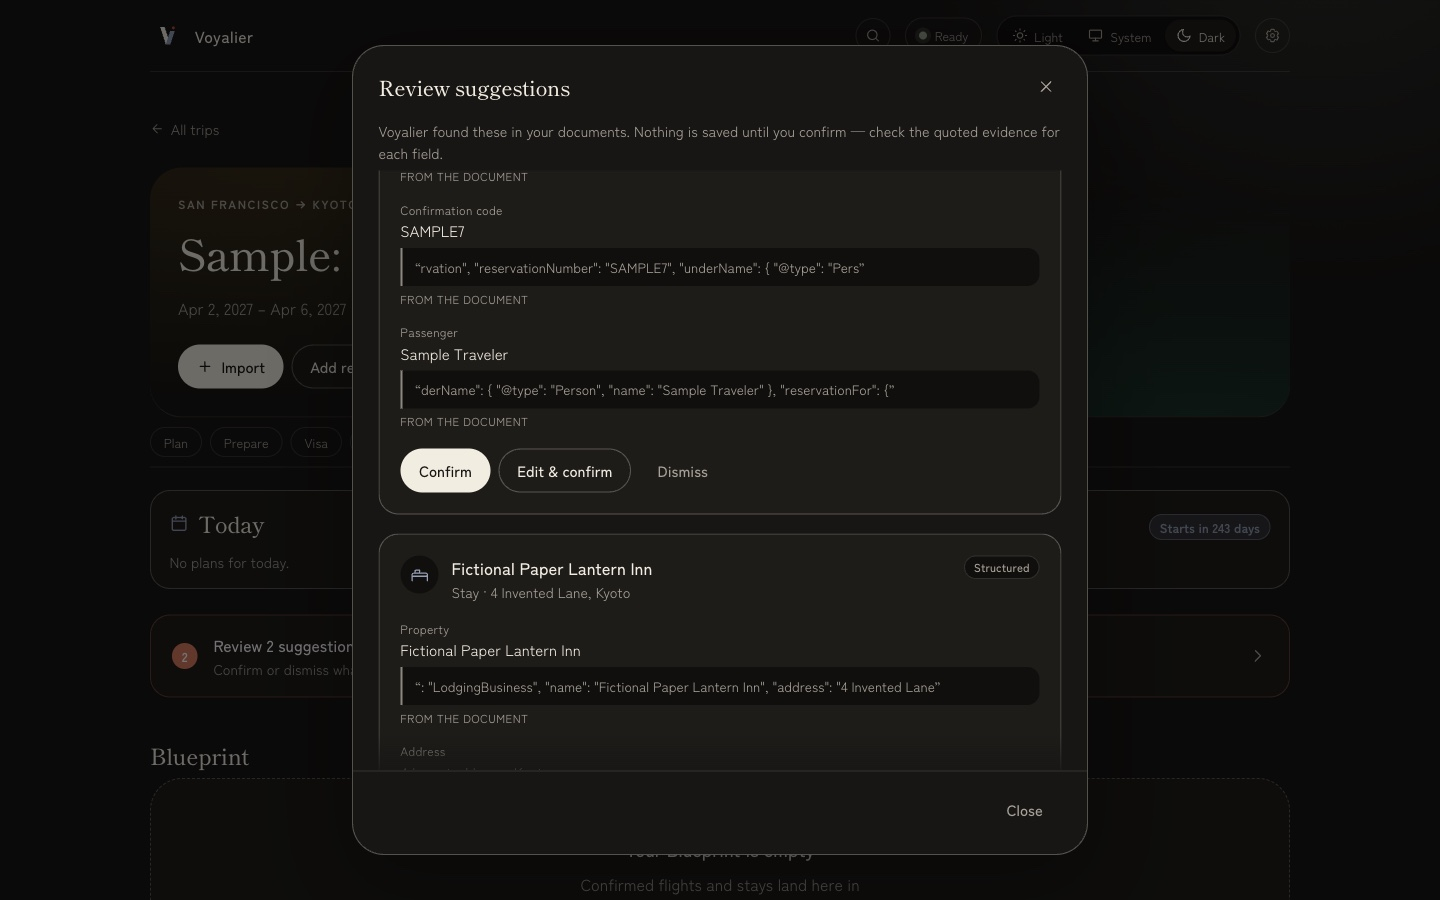
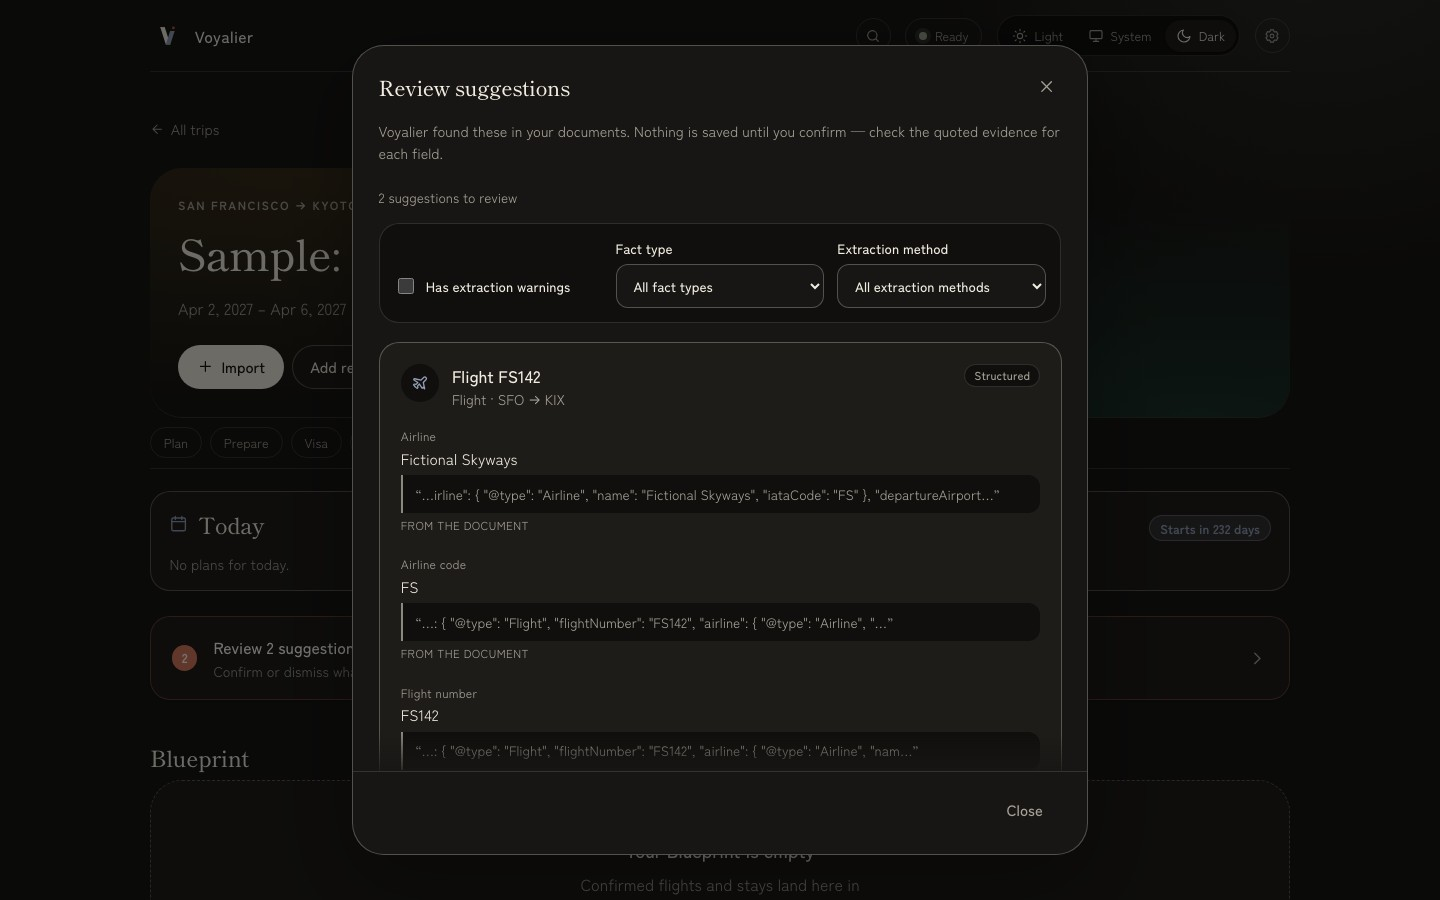
Docs: refresh 0.10.7 public surfaces
Synchronize the README, landing page, guides, design contract, changelog, and disposable current-source captures with the verified continuity release. Distinguish missing paid platform identity from Voyalier updater signing, preserve the local-first authority boundary, and evolve the Quiet Transit signature into a source-review-plan-return evidence register. Verified with Astro check/build and rendered Chromium inspection at 320, 375, 414, 768, and 1440 pixels.

diff --git a/docs-site/src/styles/landing.css b/docs-site/src/styles/landing.css
@@ -414,38 +414,43 @@ h3 {
 
 .route-ledger {
   display: grid;
-  grid-template-columns:
-    auto minmax(1rem, 1fr) auto minmax(1rem, 1fr)
-    auto minmax(1rem, 1fr) auto;
-  align-items: center;
-  gap: var(--space-xs);
+  grid-template-columns: minmax(0, 1fr);
+  gap: var(--space-md);
   max-width: var(--content-max);
   margin-inline: auto;
   padding: 0 var(--page-gutter) var(--space-3xl);
+  list-style: none;
+}
+
+.route-ledger li {
+  display: grid;
+  grid-template-columns: auto minmax(0, 1fr);
+  gap: var(--space-2xs) var(--space-sm);
+  min-width: 0;
+  padding-block-start: var(--space-sm);
+  border-block-start: var(--rule-hair) solid var(--color-rule);
   color: var(--color-muted);
+}
+
+.route-ledger span {
+  grid-row: 1 / span 2;
+  color: var(--color-route);
   font-family: var(--font-outlier);
   font-size: var(--text-xs);
   font-variant-numeric: tabular-nums;
+}
+
+.route-ledger strong {
+  color: var(--color-ink);
+  font-size: var(--text-sm);
+  letter-spacing: 0.06em;
   text-transform: uppercase;
 }
 
-.route-ledger i {
-  position: relative;
-  height: var(--rule-hair);
-  background: var(--color-rule);
-}
-
-.route-ledger i::after {
-  position: absolute;
-  inset-block-start: 50%;
-  inset-inline-end: 0;
-  width: 0.5rem;
-  height: 0.5rem;
-  border: var(--rule-hair) solid var(--color-route);
-  border-radius: 50%;
-  background: var(--color-paper);
-  content: "";
-  transform: translateY(-50%);
+.route-ledger p {
+  margin: 0;
+  font-size: var(--text-sm);
+  line-height: 1.45;
 }
 
 .truths,
@@ -779,6 +784,10 @@ h3 {
     gap: var(--space-xl);
   }
 
+  .route-ledger {
+    grid-template-columns: repeat(2, minmax(0, 1fr));
+  }
+
   .foot-mast {
     grid-template-columns: minmax(0, 1.4fr) auto;
     align-items: end;
@@ -809,6 +818,10 @@ h3 {
     min-height: min(56rem, 92svh);
     align-items: center;
     column-gap: var(--space-2xl);
+  }
+
+  .route-ledger {
+    grid-template-columns: repeat(4, minmax(0, 1fr));
   }
 
   .hero-proof {

diff --git a/README.md b/README.md
@@ -46,16 +46,34 @@ matching installer and keeps the GitHub Releases page as a fallback.
 | **From source** | Supported Linux or Intel Mac; contributors and auditors | Same React interface through the guarded local browser stack |
 
 > [!IMPORTANT]
-> The desktop installers are public beta builds and are not yet code-signed.
-> macOS and Windows show a one-time publisher warning. The
+> The desktop installers are public beta builds without paid platform publisher
+> identity; macOS is not notarized and Windows may show SmartScreen. Updater
+> artifacts are signed by Voyalier, and releases publish SHA-256 checksums. The
 > [install guide](https://udhawan97.github.io/Voyalier/download/) explains the
-> exact steps, optional SHA-256 checks, and verified updater. The repository can
+> exact warning, optional checksum checks, and verified updater. The repository can
 > be ahead of the latest published installer; the **stable** badge above is the
 > source of truth for downloadable version.
 
 <p align="center">
   <img src="docs-site/public/assets/screenshots/voyalier-trip-workspace.jpg" alt="Current-source Voyalier workspace for a fictional Kyoto trip, with Today, pending suggestions, and the Blueprint" width="1100">
 </p>
+
+## What changed in 0.10.7
+
+- Readiness findings now open the exact local next step: the matching schedule
+  context, a preselected Stay form, the pending review queue, Visa, or Prepare.
+- Duplicate imports can open the existing stored document without fetching or
+  expanding its sealed body.
+- Review filters combine extraction warnings, fact type, and extraction method
+  while every confirm, edit, and dismiss decision remains one at a time.
+- Search and Settings detours unwind through in-app Back and browser history to
+  the prior trip section and page heading; private queries and record ids stay
+  out of durable URLs.
+- The 320 px Plan layout and Create Trip focus return are now exercised in both
+  Chromium and WebKit.
+
+Read the [full changelog](CHANGELOG.md) for tradeoffs and intentionally unchanged
+authority boundaries.
 
 ## The simple version
 
@@ -92,14 +110,14 @@ The useful parts work without a paid model or provider key.
 | ----------------------- | ---------------------------------------------------------------------------------------------------------------------------------------------------------------------- |
 | **Trips**               | Create, edit, archive, restore, and delete trips; remember the active trip and section; build a deterministic Blueprint.                                               |
 | **Confirmations**       | Import text, HTML, `.eml`, or local files; preserve parser runs, excerpts, field spans, and warnings.                                                                  |
-| **Review**              | Confirm, edit and confirm, dismiss, or undo; nothing is promoted silently.                                                                                             |
+| **Review**              | Filter locally by warning, fact type, or extraction method, then confirm, edit and confirm, dismiss, or undo one candidate at a time; nothing is promoted silently.    |
 | **Itinerary**           | Order confirmed transport and stays; report literal overlaps, lodging gaps, handoff slack, and exposed connections without inventing predictions.                      |
-| **Readiness**           | Explain logistics gaps and link to official entry/health sources without making authority claims.                                                                      |
+| **Readiness**           | Explain logistics gaps, open the local context that can address each finding, and link to official entry/health sources without making authority claims.               |
 | **Visa preparation**    | Keep passport-specific preparation, dated official sources, a universal guide, traveler ticks, and sealed notes clearly separated from a visa decision.                |
 | **Live context**        | Fetch official advice, destination weather, page snapshots, packs, maps, or a manual trip re-check only after an explicit action. There is no background monitoring.   |
 | **Offline discovery**   | Rank licensed city-pack places with visible scores and reasons; save places with provenance and optional notes.                                                        |
 | **Traveler plans**      | Keep packing items, activities, rail legs, and transfers separate from imported confirmed facts while including safe projections in Today, calendar, and brief output. |
-| **Search and research** | Search local source documents, confirmed facts, notes, saved places, plans, and saved reading with trip/source provenance. Pending candidates stay out.                |
+| **Search and research** | Search local source documents, confirmed facts, notes, saved places, plans, and saved reading with trip/source provenance; nested detours return to their exact entry. |
 | **AI assist**           | Guide local Ollama setup; validate BYOK cloud keys; preview the exact redacted payload; keep cloud help optional; keep trip chat on-device only.                       |
 | **Vault and sharing**   | Seal sensitive columns at rest; optionally passphrase-wrap the key; generate a brief whose model excludes traveler names and confirmation codes.                       |
 | **Language and access** | Complete English and Spanish catalogs, keyboard flows, focus containment and return, reduced motion, contrast checks, 320 px reflow, and automated axe gates.          |
@@ -116,6 +134,17 @@ The useful parts work without a paid model or provider key.
 
 The importer proposes. The traveler decides. A candidate keeps the excerpt that
 supports it so a correction is grounded in the document, not a confident guess.
+Local filters shorten a long queue without turning review into a bulk action.
+
+### Readiness points to the next local step
+
+<p align="center">
+  <img src="docs-site/public/assets/screenshots/voyalier-readiness-route.jpg" alt="Voyalier readiness panel for a fictional trip, with local next-step actions for schedule, lodging, pending review, entry, and health context" width="1100">
+</p>
+
+A logistics finding can take you to the exact confirmed fact, traveler-authored
+plan, Stay form, or review queue it names. Entry and health remain link-only,
+traveler-confirmed work; navigation never turns them into cleared requirements.
 
 ### Preparation says where its authority stops
 
@@ -208,7 +237,7 @@ interface through direct Tauri IPC and does not bind a TCP port in release mode.
 pnpm dev:web      # React interface only
 pnpm dev:docs     # Astro/Starlight documentation
 make check        # formatting, types, lint, Rust, desktop, integration, and browser gates
-pnpm test:e2e     # Chromium acceptance against the real local stack
+pnpm test:e2e     # Chromium journeys plus shared Chromium/WebKit regressions
 ```
 
 Use `make check` as the repository gate. A bare `cargo test` skips the desktop

diff --git a/CHANGELOG.md b/CHANGELOG.md
@@ -6,6 +6,13 @@ The project follows Semantic Versioning and keeps unreleased work under the sect
 
 ## [Unreleased]
 
+## [0.10.7] - 2026-08-13 — The next step carries you back
+
+This release closes the remaining continuity gaps in the current-source
+workspace. Findings now lead to the local context that can address them,
+temporary detours preserve their return path, and the narrowest supported
+layout keeps that path usable in both Chromium and WebKit.
+
 ### Added
 
 - **Readiness checks now carry travelers into the matching local workspace.** Schedule findings
@@ -42,6 +49,29 @@ The project follows Semantic Versioning and keeps unreleased work under the sect
   queries show localized enabling guidance associated with the field and keep Search disabled;
   valid Enter, pointer, debounce, and recovery paths are unchanged. Search terms remain local to
   the app gateway and are neither persisted nor sent to an external provider.
+- **The Plan register now stays inside the supported 320-pixel viewport in
+  WebKit.** Flexible form fields and the trip search can shrink with their
+  parent, and focusing a workspace-search result no longer shifts the page
+  sideways. Chromium remains the full journey engine; the shared regression
+  now runs in both Chromium and WebKit.
+- **Create Trip returns keyboard focus to the exact button that opened it.**
+  The header and empty-state actions use the dialog's existing explicit return
+  seam, so Escape and Cancel no longer fall back to the start of the main
+  content in WebKit. If an action removes its opener, the existing reachable
+  main-content fallback remains.
+- **Vault guidance now forms complete sentences in both languages.** JSX owns
+  the sentence boundary instead of relying on leading whitespace inside one
+  translation, preventing Spanish Settings from joining two sentences into one
+  word.
+
+### Not changed
+
+- Review remains one suggestion at a time: filters reduce the visible queue but
+  never authorize bulk confirmation or dismissal. Search queries and exact
+  record targets remain private, entry-scoped state rather than durable URLs.
+- Voyalier still does not decide entry, health, safety, availability, prices,
+  or bookings. Readiness actions are local navigation aids, not evidence that a
+  requirement is cleared.
 
 ## [0.10.6] - 2026-08-11 — Retry finishes the search
 

diff --git a/docs-site/design.md b/docs-site/design.md
@@ -1,6 +1,6 @@
 # Quiet Transit — Voyalier public design system
 
-Status: locked on 2026-08-02
+Status: locked on 2026-08-02; evidence-register amendment on 2026-08-13
 Scope: marketing landing page, Starlight documentation, public diagrams, social
 preview, and README presentation.
 
@@ -30,8 +30,9 @@ engine, or an AI oracle.
   current screenshots in reading order.
 - Downloads: **F6 Product Card Grid** — 3-up, landscape, uniform products, one
   primary action per platform.
-- Signature: a folded-route ledger line carries `source → review → plan → go`
-  through the page. It is wayfinding with semantic labels, not ambient art.
+- Signature: a folded-route evidence register carries
+  `source → review → plan → return` through the page. Each stop names the trust
+  state and continuity promise; it is wayfinding, not ambient art.
 
 ## Voice
 
